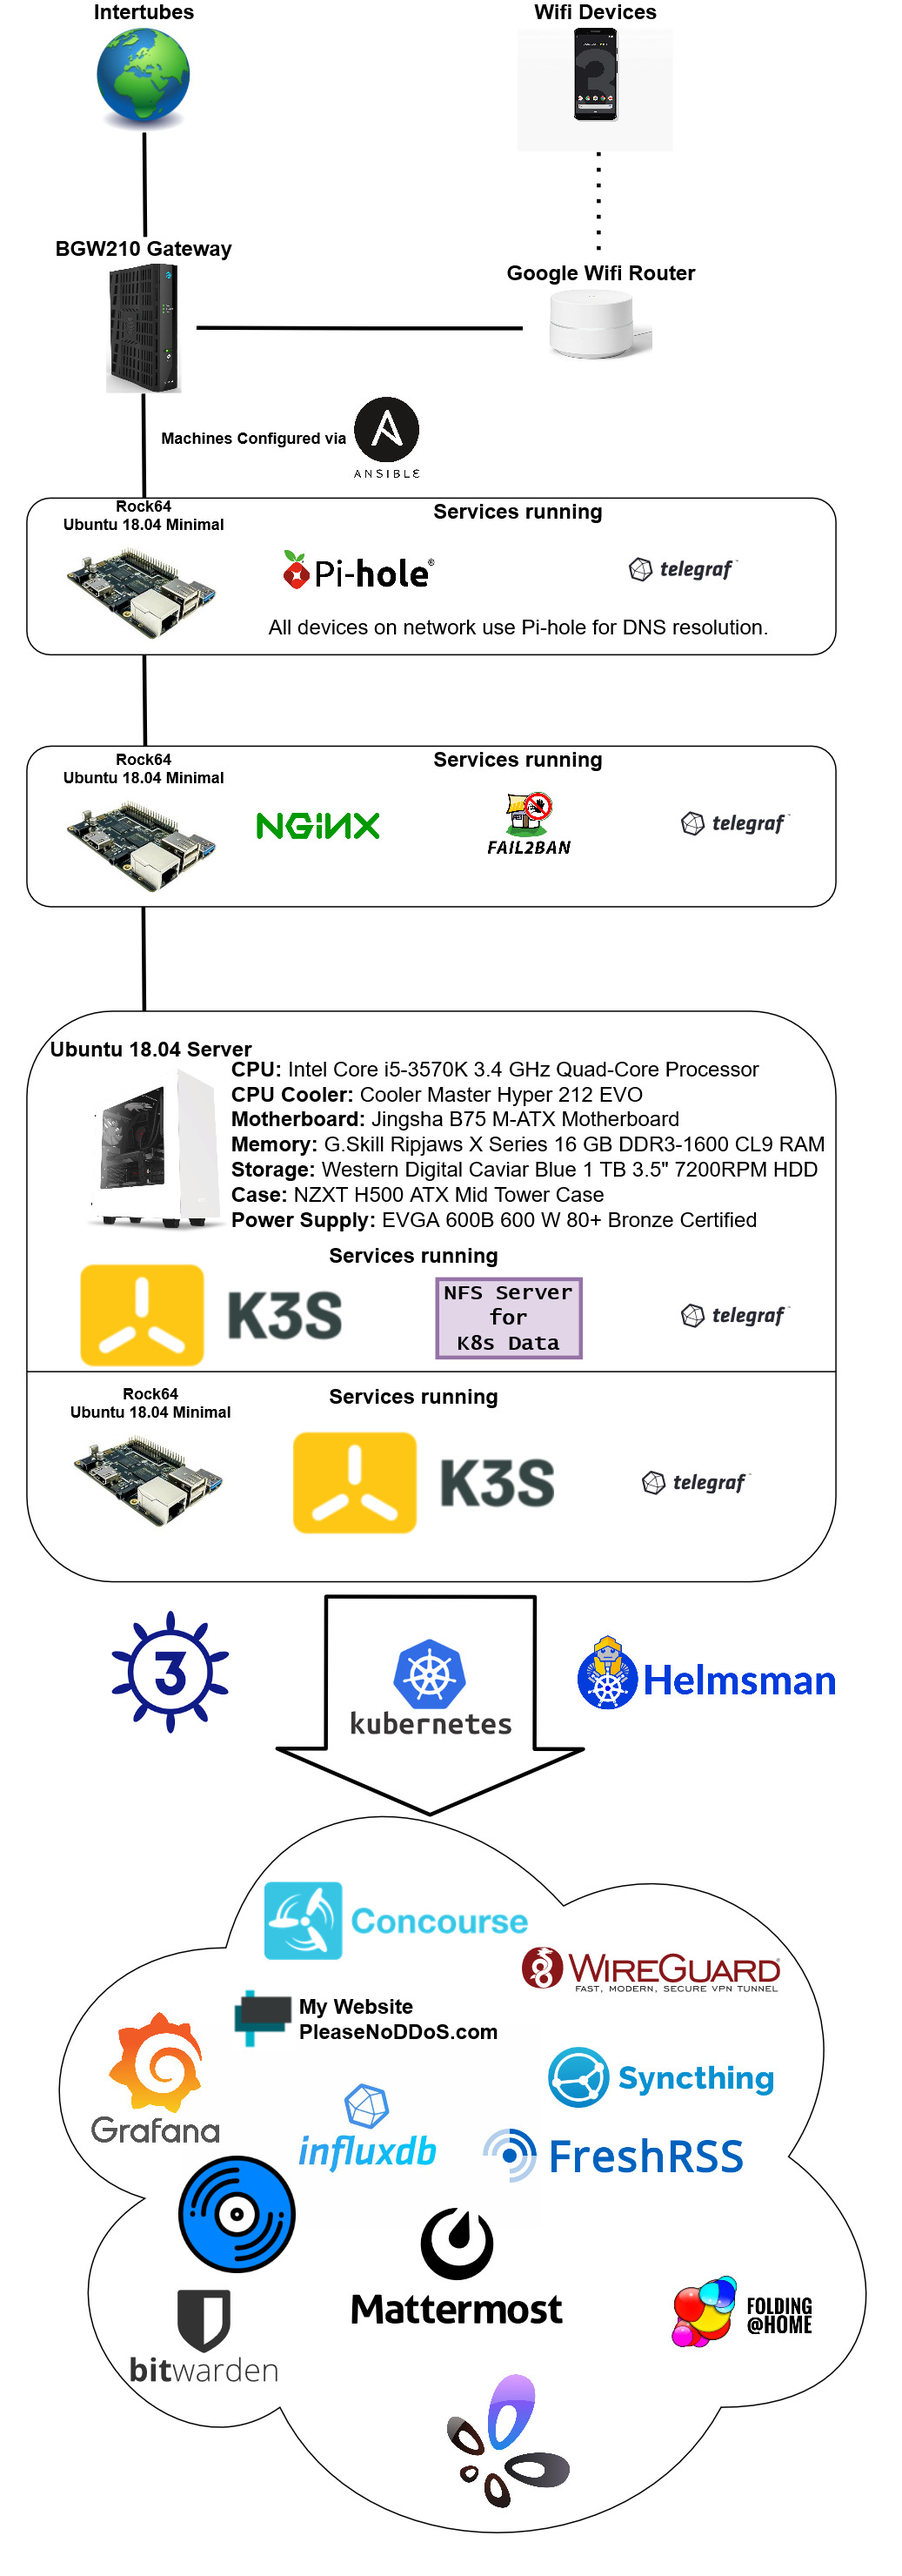
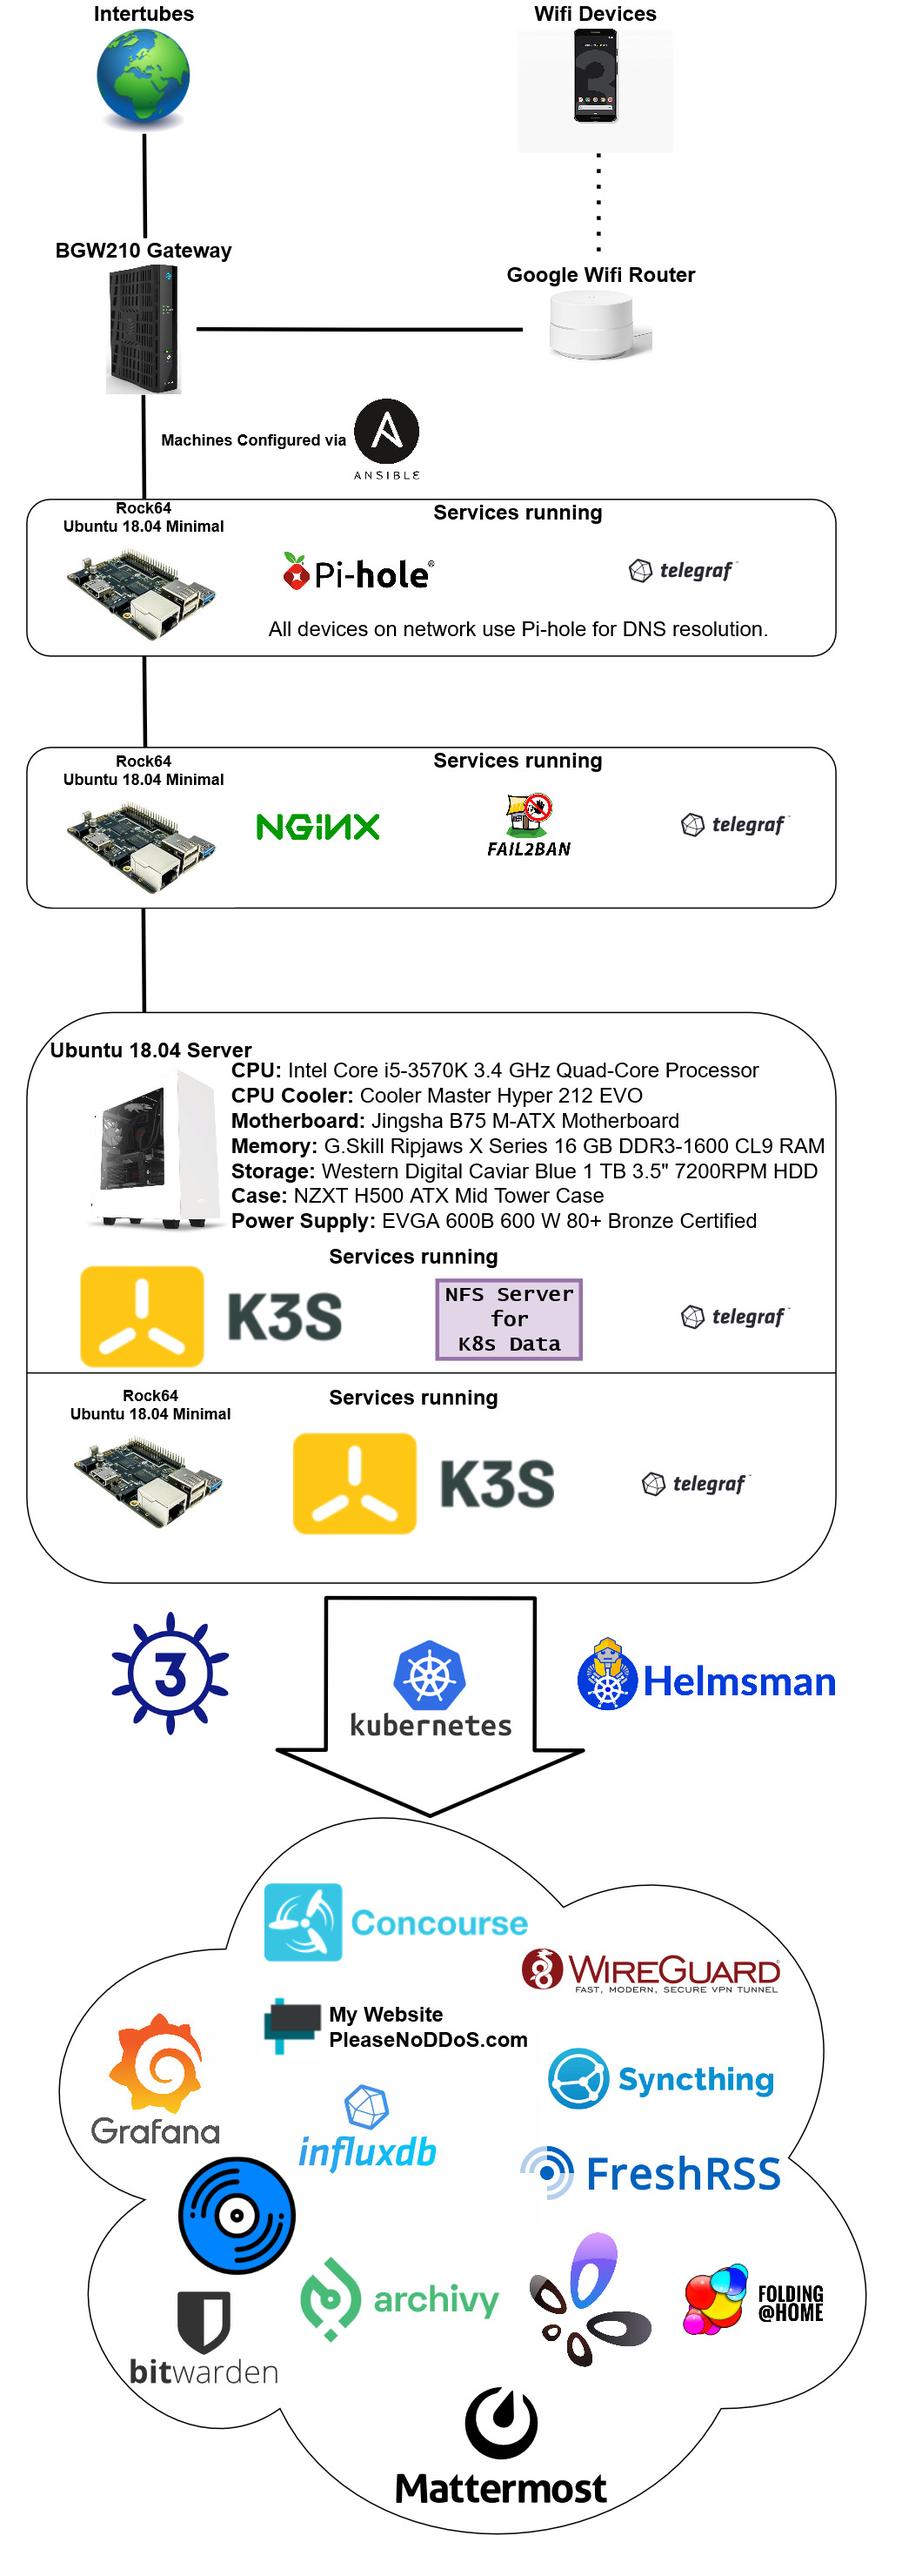
archivy

diff --git a/flipenergy/content/post/archivy.md b/flipenergy/content/post/archivy.md
@@ -1,0 +1,13 @@
+---
+title: "Archivy - self hosted knowledge repository"
+date: 2021-02-05T16:42:57-08:00
+draft: false
+---
+
+I've been kinda looking for a pastebin sorta app to self-host. Saw this open source flask app that just hit version 1 and it seemed to fit my needs and more. It's called [Archivy](https://archivy.github.io/) and basically it has enough functionality for me to use it as a pastebin, wiki, and just general text and web page archiving service. Backed by Elasticsearch, it allows for full text search as well. 
+Once I saw they had docker support, I was sold. Took a few hours to setup a [helm chart](https://github.com/FlipEnergy/archivy-helm-chart) and boom, I have it up and running in my k8s exposed to the internet for my use anywhere.
+
+So far, I've moved some old bookmarks into it and started on a wiki about my homelab to reference in the future. No major issues so far so I'm really liking it. Looking forward to the new features.
+
+![archivy](archivy.png)
+![editing](archivy_edit.png)
